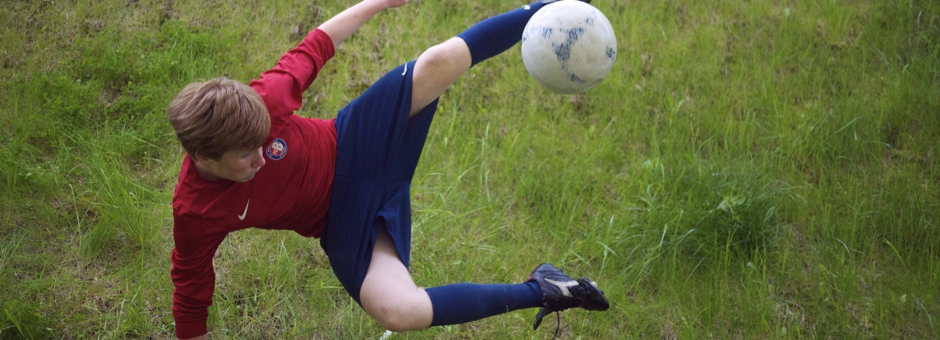
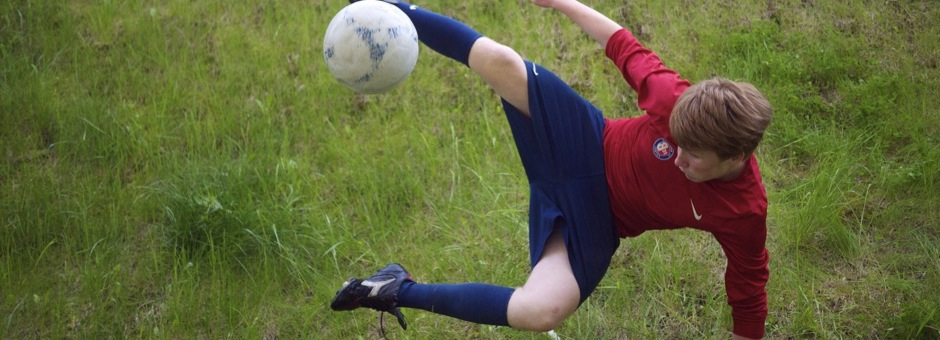
Přidal jsem stránku pro partnery.

diff --git a/turnaj/partneri.html b/turnaj/partneri.html
@@ -1,0 +1,38 @@
+---
+layout: main
+title: Partneři
+class: partneri
+---
+<div class="page-header">
+    <h1>Partneři turnaje <small>děkujeme!</small></h1>
+</div>
+
+<div class="row-fluid">
+    <div class="partner span4">
+        <a href="http://www.ohrada.cz">
+            <img src="/img/partneri/ohrada.png" alt="Agrocentrum Ohrada"></a>
+        <p>Agrocentrum Ohrada<br>hlavní partner</p>
+    </div>
+    <div class="partner span4">
+        <a href="http://www.boskovice.cz/">
+            <img src="/img/partneri/boskovice.png" alt="Město Boskovice"></a>
+        <p>Město Boskovice</p>
+    </div>
+    <div class="partner span4">
+        <a href="http://www.boskovicko.cz/">
+            <img src="/img/partneri/boskovicko.png" alt="Týdeník Boskovicko"></a>
+        <p>Týdeník Boskovicko<br>mediální partner</p>
+    </div>
+</div>
+<div class="row-fluid">
+    <div class="partner span4">
+        <a href="http://www.vodarenska.cz/divize-boskovice">
+            <img src="/img/partneri/vodarenska.png" alt="Vodárenská akciová společnost"></a>
+        <p>Vodárenská akciová společnost</p>
+    </div>
+    <div class="partner span4">
+        <a href="http://www.sluzbyboskovice.cz/">
+            <img src="/img/partneri/sluzby.png" alt="Služby Boskovice"></a>
+        <p>Služby Boskovice</p>
+    </div>
+</div>

diff --git a/css/main.css b/css/main.css
@@ -34,6 +34,7 @@ div.jumbotron h1 {
 }
 
 body.turnaj   div.jumbotron { background: url(/img/hero-1.jpg); }
+body.partneri div.jumbotron { background: url(/img/hero-2.jpg); }
 body.pravidla div.jumbotron { background: url(/img/hero-3.jpg); }
 body.rozpis   div.jumbotron { background: url(/img/hero-4.jpg); }
 
@@ -53,4 +54,16 @@ tr.predel {
 
 div.tabbable {
     padding-top: 10px;
+}
+
+.partner img {
+    border: 1px solid #dddddd;
+    width: 300px;
+    height: 150px;
+}
+
+.partner p {
+    margin-top: 10px;
+    margin-bottom: 20px;
+    text-align: center;
 }
